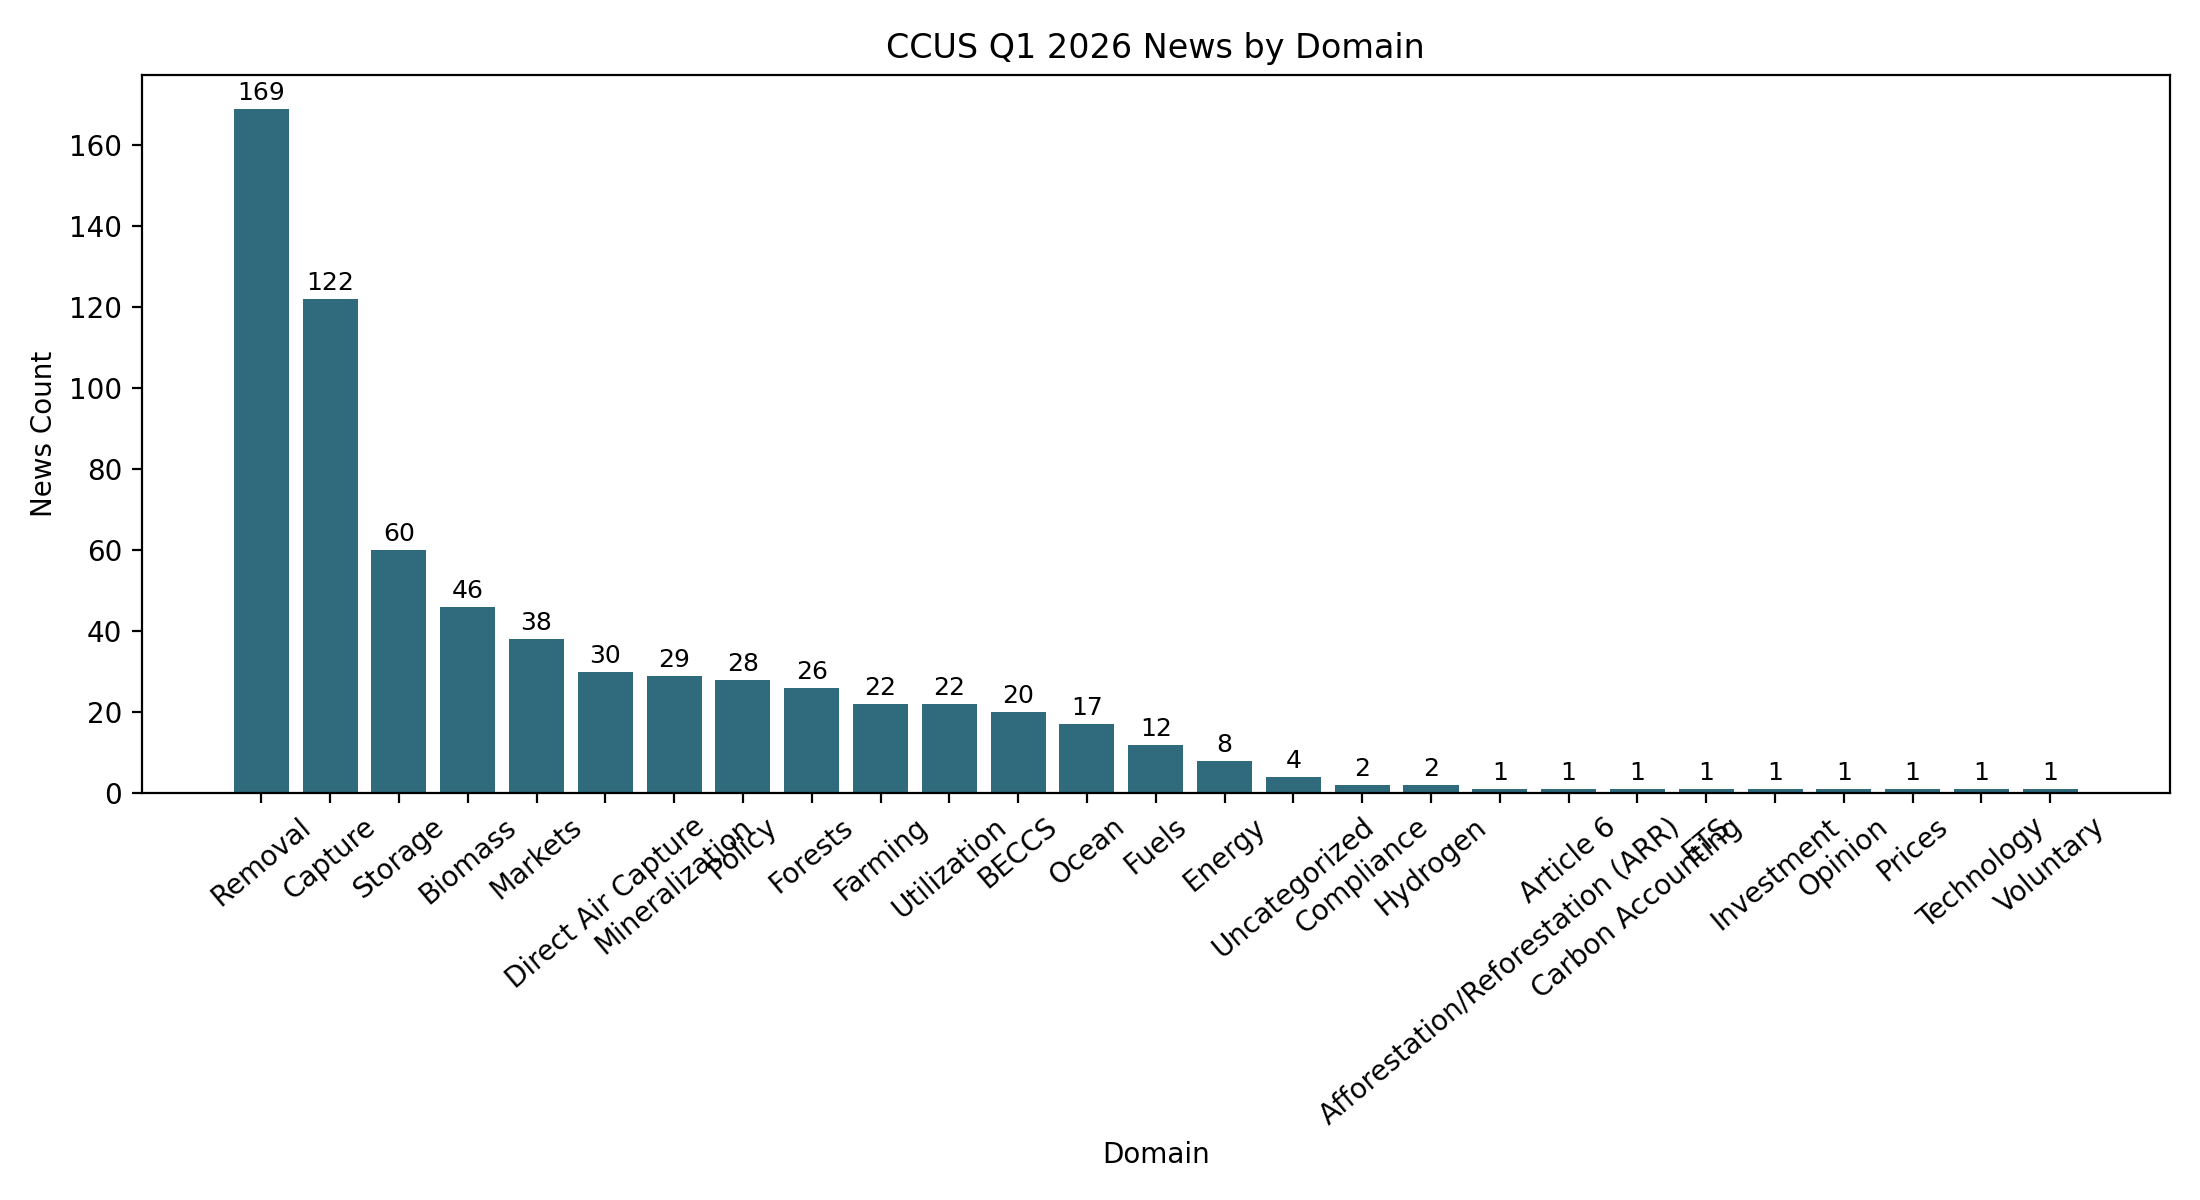
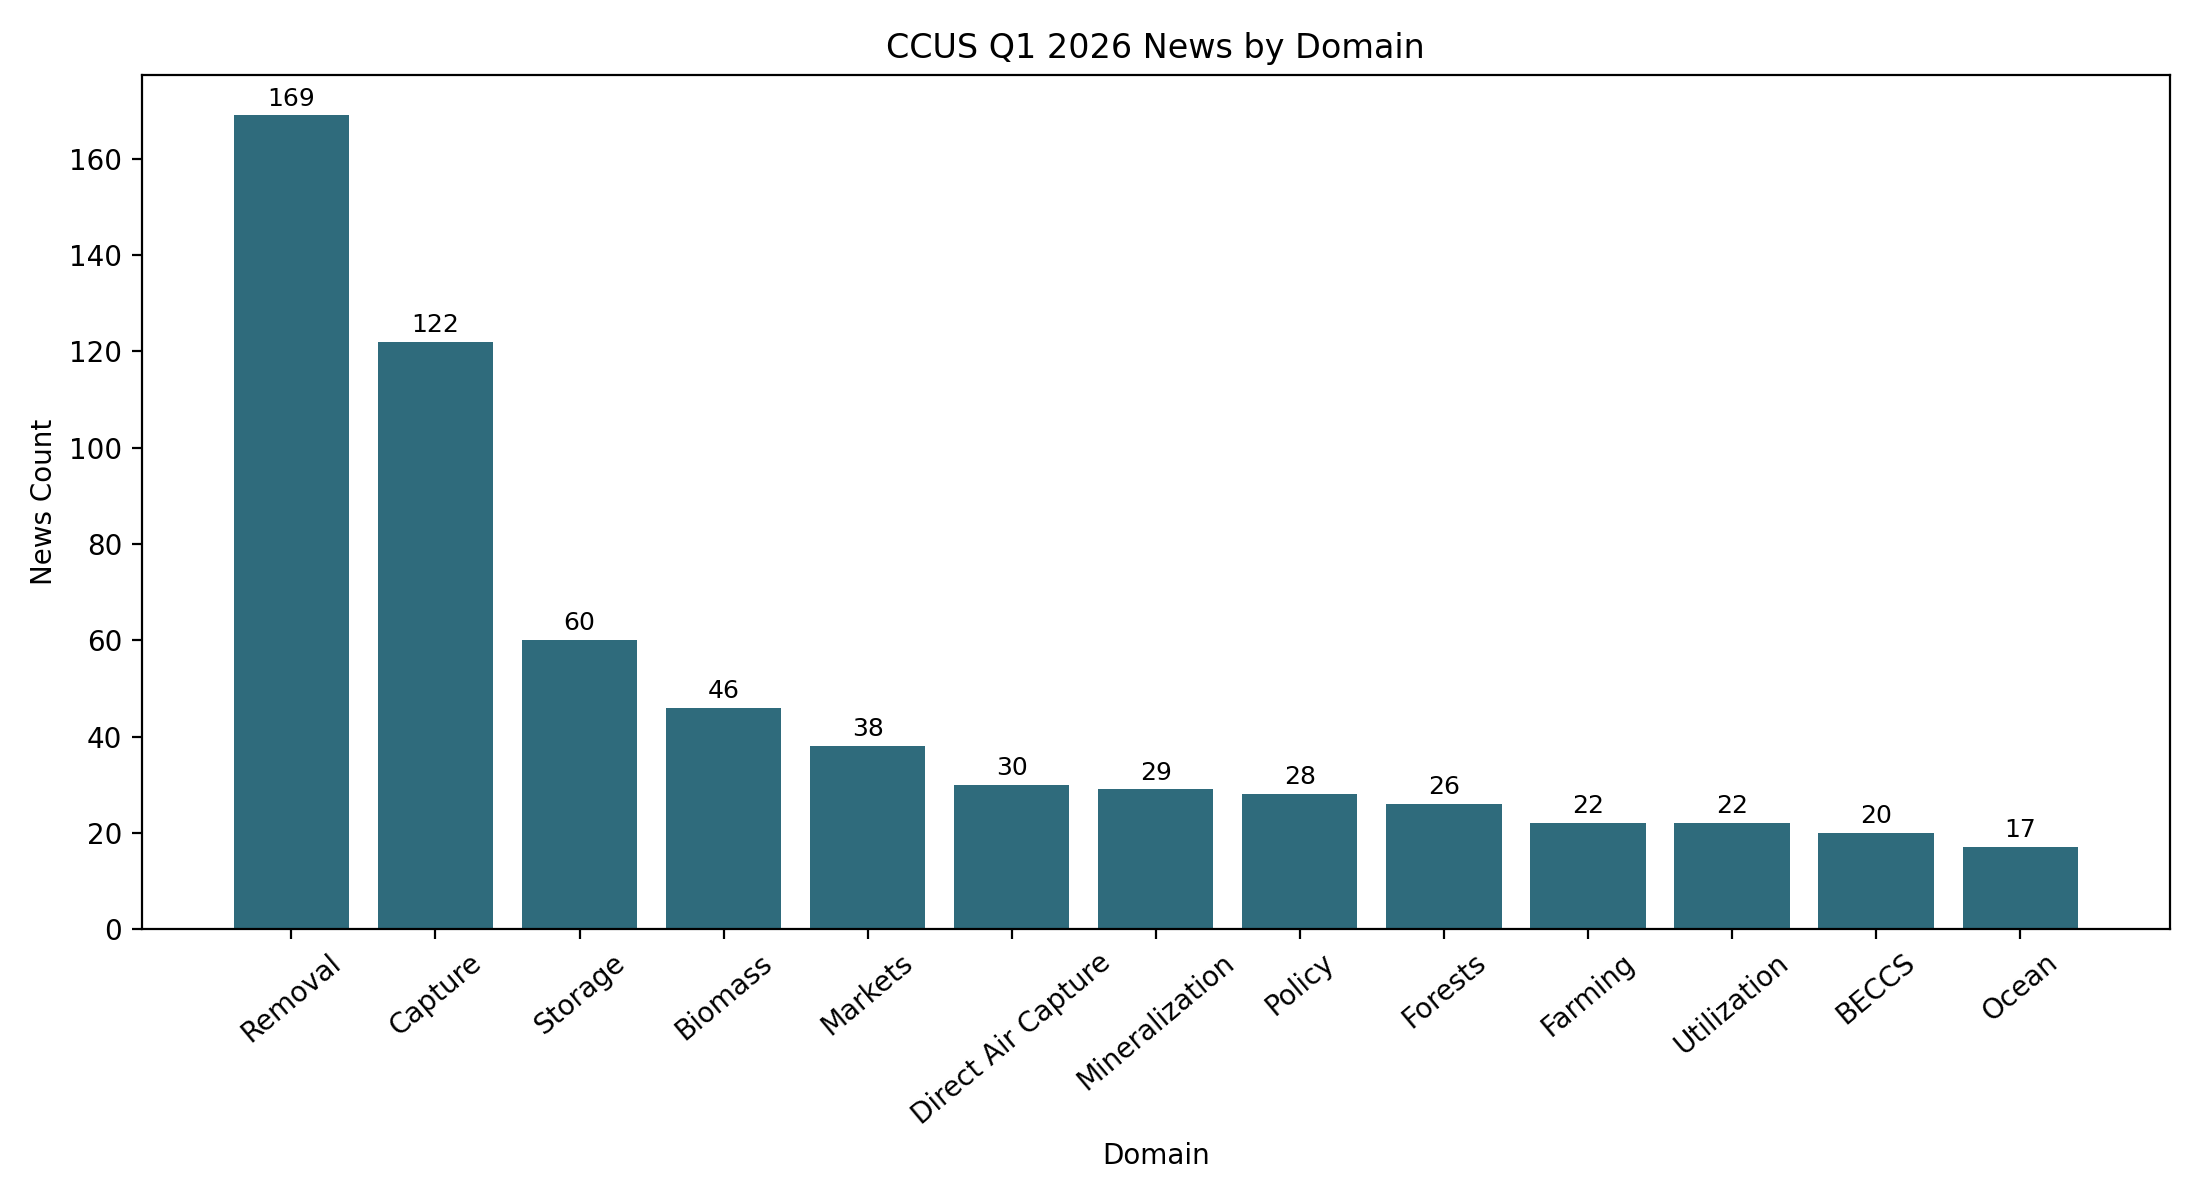
1

diff --git a/csv/generate_ccus_q1_report.py b/csv/generate_ccus_q1_report.py
@@ -17,6 +17,7 @@ BAR_PNG = BASE_DIR / "ccus_q1_2026_label_bar.png"
 PIE_PNG = BASE_DIR / "ccus_q1_2026_label_pie.png"
 MONTHLY_PNG = BASE_DIR / "ccus_q1_2026_monthly_trend.png"
 REPORT_MD = BASE_DIR / "ccus_q1_2026_brief_report.md"
+MIN_NEWS_COUNT = 15
 
 
 def save_label_bar(tag_counts: pd.DataFrame) -> None:
@@ -36,16 +37,10 @@ def save_label_bar(tag_counts: pd.DataFrame) -> None:
 
 
 def save_label_pie(tag_counts: pd.DataFrame) -> None:
-    top_n = 7
-    pie_df = tag_counts.head(top_n).copy()
-    other_count = int(tag_counts.iloc[top_n:]["news_count"].sum())
-    if other_count:
-        pie_df.loc[len(pie_df)] = {"label": "Other", "news_count": other_count}
-
     fig, ax = plt.subplots(figsize=(8, 8))
     ax.pie(
-        pie_df["news_count"],
-        labels=pie_df["label"],
+        tag_counts["news_count"],
+        labels=tag_counts["label"],
         autopct="%1.1f%%",
         startangle=90,
         counterclock=False,
@@ -110,7 +105,8 @@ def build_report(news: pd.DataFrame, tag_counts: pd.DataFrame, monthly_counts: p
         f"- 标签统计文件：`{TAG_COUNTS_CSV.name}`",
         "- 统计区间：2026-01-01 至 2026-03-31",
         f"- 新闻总量：{total_news} 篇",
-        f"- 标签总提及量：{total_tag_mentions} 次",
+        f"- 纳入统计的标签阈值：不少于 {MIN_NEWS_COUNT} 次",
+        f"- 纳入统计的标签提及量：{total_tag_mentions} 次",
         "",
         "## 2. 核心结论",
         f"- 一季度新闻量总体稳定，1月 {int(monthly_counts.iloc[0])} 篇，2月 {int(monthly_counts.iloc[1])} 篇，3月 {int(monthly_counts.iloc[2])} 篇，峰值出现在 {max_month}，低点出现在 {min_month}。",
@@ -162,7 +158,12 @@ def build_report(news: pd.DataFrame, tag_counts: pd.DataFrame, monthly_counts: p
 
 def main() -> None:
     news = pd.read_csv(NEWS_CSV)
-    tag_counts = pd.read_csv(TAG_COUNTS_CSV).sort_values("news_count", ascending=False).reset_index(drop=True)
+    tag_counts = (
+        pd.read_csv(TAG_COUNTS_CSV)
+        .sort_values("news_count", ascending=False)
+        .query("news_count >= @MIN_NEWS_COUNT")
+        .reset_index(drop=True)
+    )
     news["date"] = pd.to_datetime(news["date"])
 
     save_label_bar(tag_counts)

diff --git a/csv/ccus_q1_2026_brief_report.md b/csv/ccus_q1_2026_brief_report.md
@@ -5,43 +5,30 @@
 - 标签统计文件：`carbonherald_q1_2026_tag_counts.csv`
 - 统计区间：2026-01-01 至 2026-03-31
 - 新闻总量：278 篇
-- 标签总提及量：666 次
+- 纳入统计的标签阈值：不少于 15 次
+- 纳入统计的标签提及量：629 次
 
 ## 2. 核心结论
 - 一季度新闻量总体稳定，1月 92 篇，2月 96 篇，3月 90 篇，峰值出现在 2026-02，低点出现在 2026-03。
-- 领域关注度高度集中在 `Removal`、`Capture` 和 `Storage`。三者合计 351 次，占全部标签提及的 52.7%。
+- 领域关注度高度集中在 `Removal`、`Capture` 和 `Storage`。三者合计 351 次，占全部标签提及的 55.8%。
 - `Removal` 连续三个月保持第一，分别为 55、56、58 次，说明碳移除仍是季度主线。
 - `Capture` 在 2 月达到季度内月度高点 44 次，随后 3 月回落至 38 次，反映捕集项目新闻在 2 月更集中。
 - 来源类别上，`removal` 相关新闻 170 条，`capture` 相关新闻 143 条，前者略高，显示媒体关注仍偏向移除型技术与项目进展。
 
 ## 3. 领域分布
-- Removal: 169 次，占比 25.4%
-- Capture: 122 次，占比 18.3%
-- Storage: 60 次，占比 9.0%
-- Biomass: 46 次，占比 6.9%
-- Markets: 38 次，占比 5.7%
-- Direct Air Capture: 30 次，占比 4.5%
-- Mineralization: 29 次，占比 4.4%
-- Policy: 28 次，占比 4.2%
-- Forests: 26 次，占比 3.9%
-- Farming: 22 次，占比 3.3%
-- Utilization: 22 次，占比 3.3%
-- BECCS: 20 次，占比 3.0%
-- Ocean: 17 次，占比 2.6%
-- Fuels: 12 次，占比 1.8%
-- Energy: 8 次，占比 1.2%
-- Uncategorized: 4 次，占比 0.6%
-- Compliance: 2 次，占比 0.3%
-- Hydrogen: 2 次，占比 0.3%
-- Afforestation/Reforestation (ARR): 1 次，占比 0.2%
-- Article 6: 1 次，占比 0.2%
-- Carbon Accounting: 1 次，占比 0.2%
-- ETS: 1 次，占比 0.2%
-- Investment: 1 次，占比 0.2%
-- Opinion: 1 次，占比 0.2%
-- Prices: 1 次，占比 0.2%
-- Technology: 1 次，占比 0.2%
-- Voluntary: 1 次，占比 0.2%
+- Removal: 169 次，占比 26.9%
+- Capture: 122 次，占比 19.4%
+- Storage: 60 次，占比 9.5%
+- Biomass: 46 次，占比 7.3%
+- Markets: 38 次，占比 6.0%
+- Direct Air Capture: 30 次，占比 4.8%
+- Mineralization: 29 次，占比 4.6%
+- Policy: 28 次，占比 4.5%
+- Forests: 26 次，占比 4.1%
+- Farming: 22 次，占比 3.5%
+- Utilization: 22 次，占比 3.5%
+- BECCS: 20 次，占比 3.2%
+- Ocean: 17 次，占比 2.7%
 
 ## 4. 月度走势
 - 2026-01: 92 篇，环比基准月。